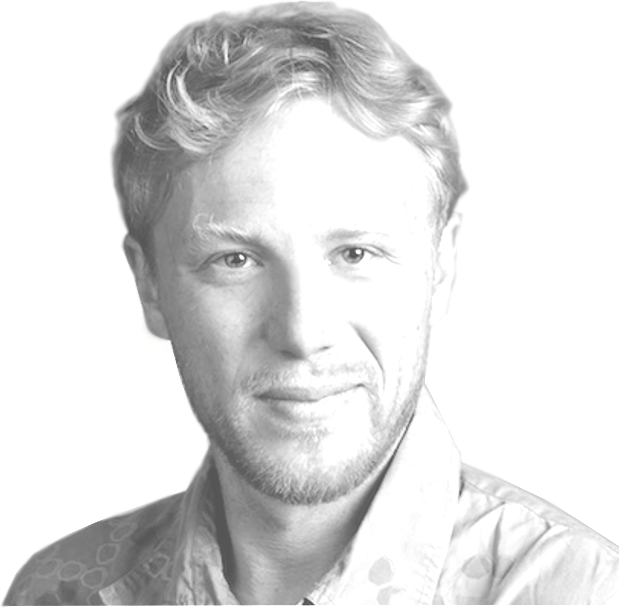
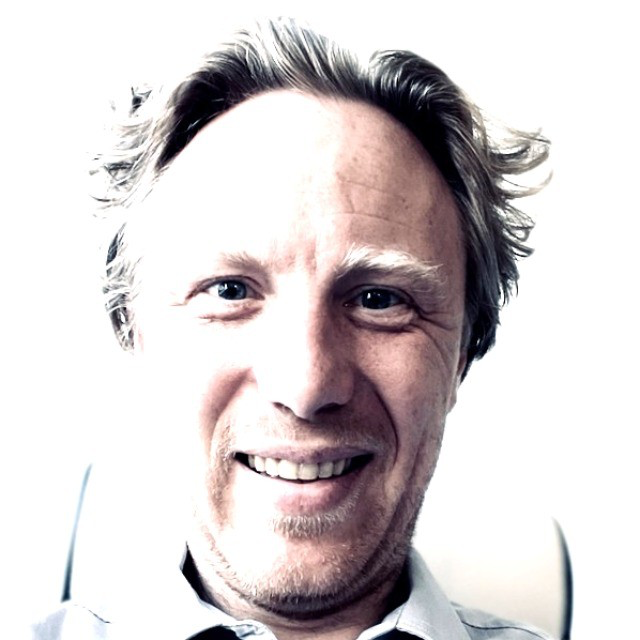
some design trial

diff --git a/build/index.html b/build/index.html
@@ -1,1 +1,1 @@
-<!DOCTYPE html><html><head><meta charset="utf-8" /><meta content="ie=edge" http-equiv="x-ua-compatible" /><meta content="width=device-width, initial-scale=1, shrink-to-fit=no" name="viewport" /><title>TSchmid.io</title><link href="stylesheets/application.css" rel="stylesheet" /><script src="javascripts/application.js"></script><link href="images/favicon.ico" rel="icon" type="image/ico" /><script async="" data-name="google-analytics" data-type="application/javascript" src="https://www.googletagmanager.com/gtag/js?id=G-F2N9H0REGE" type="text/plain"></script><script data-name="google-analytics" data-type="application/javascript" type="text/plain">window.dataLayer = window.dataLayer || []; function gtag(){dataLayer.push(arguments);} gtag('js', new Date()); gtag('config', 'G-F2N9H0REGE'); </script><script src="javascripts/klaro.config.js" defer="defer"></script><script src="javascripts/klaro.js" defer="defer"></script></head><body class="min-vh-100 d-flex flex-column"><div class="d-lg-none"><nav class="navbar navbar-expand navbar-light bg-body-tertiary fixed-top py-2" id="mainNav"><div class="container-fluid px-4 px-lg-5"><div class="text-start"><a class="button btn btn-outline-dark" href="tel:+491791451810"><i class="bi bi-telephone-fill"></i></a></div><a class="navbar-brand text-center" href="/">Tobias Schmid <br />tschmid.io</a><div class="text-end"><a class="button btn btn-outline-dark" href="mailto:hi@tschmid.io"><i class="bi bi-envelope-fill"></i></a></div></div></nav></div><div class="d-none d-lg-block"><nav class="navbar navbar-expand-lg navbar-light bg-body-tertiary fixed-top py-2" id="mainNav"><div class="container-fluid px-4 px-lg-5"><div class="text-start"><h4><a class="button btn btn-outline-dark" href="tel:+491791451810"><i class="bi bi-telephone-fill"></i><b> +49 179 145 181 0</b></a></h4></div><a class="navbar-brand" href="/">Tobias Schmid <span class="px-2"></span> | <span class="px-2"></span>tschmid.io</a><div class="text-end"><h4><a class="button btn btn-outline-dark" href="mailto:hi@tschmid.io"><i class="bi bi-envelope-fill"></i><b> hi@tschmid.io</b></a></h4></div></div></nav></div><div class="container flex-grow-1"><div class="row justify-content-center text-center"><div class="col"><div class="row justify-content-md-center"><div class="col-12 col-xl-7"><div class="page-section"><div class="row pt-5 text-start"><div class="col-12 col-lg-6"><div class="py-5 text-start"><h2 class="text-primary">Freelance IT Consultant </h2><h2 class="text-primary">& Technical Project Manager</h2><br /><div>With more than <b>14 years experience </b>in web & software projects, </div><br /><div>I help companies and the public sector with <b>digital transformation </b>challenges with a focus on <b>system integrations </b>and <b>interfaces.</b></div><br /><div>If you are looking for some IT <b>professional </b>with <b>strong technical knowledge </b>and a <b>hands-on mentality</b>, I would love to hear from you!</div></div></div><div class="col-12 col-lg-6 order-first order-lg-1"><img class="img-fluid" src="images/portrait.png" /><h2 class="text-end"><a class="text-dark" href="https://www.linkedin.com/in/tobias-schmid/"><i class="px-1 bi bi-linkedin"></i></a></h2></div></div><div class="row"><div class="col-12 col-lg-6 text-start pt-3"><div class="card h-100"><div class="card-body"><h4 class="card-title">TOP SKILLS</h4><div class="card-text pt-4"><div class="list-group"><div class="list-group-item list-group-item-action list-group-item-light">Complex System Integrations</div><div class="list-group-item list-group-item-action list-group-item-light">Interfaces (REST-APIs, Webhooks, a.o.)</div><div class="list-group-item list-group-item-action list-group-item-light">System Architectures</div><div class="list-group-item list-group-item-action list-group-item-light">Software Engineering</div><div class="list-group-item list-group-item-action list-group-item-light">Stakeholder Management</div><div class="list-group-item list-group-item-action list-group-item-light">Agile IT Project Management</div></div></div></div></div></div><div class="col-12 col-lg-6 text-start pt-3"><div class="card h-100"><div class="card-body"><h4 class="card-title">EDUCATION  </h4><div class="card-text pt-4"><div class="list-group"><div class="list-group-item list-group-item-action list-group-item-light"><div class="py-2"><div>Freie Universität Berlin</div><div><b>Master of Science</b></div><div>Informatik, 2011-2015</div></div></div><div class="list-group-item list-group-item-action list-group-item-light"><div class="py-2"><div>Hochschule Konstanz</div><div><b>Bachelor of Science</b></div><div>Software Engineering, 2007-2011</div></div></div></div></div></div></div></div></div><div class="row"><div class="col pt-5"><div class="pb-5 text-start"><h4>A selection of my freelance projects</h4></div><div class="accordion text-start" id="projectAccordion"><div class="accordion-item"><h2 class="accordion-header"><button aria-controls="ProjectItem1" aria-expanded="false" class="accordion-button collapsed" data-bs-target="#ProjectItem1" data-bs-toggle="collapse" type="button">Interim CTO @ Vemove GmbH<div class="px-2"><i class="bi bi-rocket-takeoff"></i></div>Transport-Management-System</button></h2><div class="accordion-collapse collapse" id="ProjectItem1"><div class="accordion-body">Conception and development of a transportation management system (TMS) for the eﬃcient processing of vehicle transport orders.<br /><br />> Digitalization and automation of previously manual business processes.<br />> Mapping of logistics processes and integration of external systems.<br />> Communication and coordination between the team and external stakeholders.<br />> Company scaling through the developed TMS in shortest time.</div></div></div><div class="accordion-item"><h2 class="accordion-header"><button aria-controls="ProjectItem2" aria-expanded="false" class="accordion-button collapsed" data-bs-target="#ProjectItem2" data-bs-toggle="collapse" type="button">IT Project Manager @ ]init AG[ <div class="px-2"><i class="bi bi-rocket-takeoff"></i></div>Elterngeld Digital</button></h2><div class="accordion-collapse collapse" id="ProjectItem2"><div class="accordion-body">Building digital services for Germany.<br />Project Management of challenging projects for the Federal Ministry of Family Affairs (Bundesfamilienministerium) for the digital transformation of administrative services.<br /><br />> Management of the teams to achieve the milestones (waterfall - scrum combination).<br />> Stakeholder management of representatives from federal and state ministries in workshops and committees.<br />> Coordination and supervision of the further development of the XÖV standard XFamilie for the standardization of data structures (for digital communication in the family sector).<br />> Integration of OSCI/XTA2/DVDV and COM Despina into the Elterngeld Digital service.</div></div></div><div class="accordion-item"><h2 class="accordion-header"><button aria-controls="ProjectItem3" aria-expanded="false" class="accordion-button collapsed" data-bs-target="#ProjectItem3" data-bs-toggle="collapse" type="button">IT Consultant @ Scheibner m-tec GmbH<div class="px-2"><i class="bi bi-rocket-takeoff"></i></div>Measurement-Expert-System</button></h2><div class="accordion-collapse collapse" id="ProjectItem3"><div class="accordion-body">Conception and development of a system for measuring and calculating the dimensional accuracy of e-bike and bicycle frames. Automated generation of measurement protocols for test reports.</div></div></div><div class="accordion-item"><h2 class="accordion-header"><button aria-controls="ProjectItem4" aria-expanded="false" class="accordion-button collapsed" data-bs-target="#ProjectItem4" data-bs-toggle="collapse" type="button">IT Consultant @ coVidGO.io<div class="px-2"><i class="bi bi-rocket-takeoff"></i></div>Corona-Warn-App Integration</button></h2><div class="accordion-collapse collapse" id="ProjectItem4"><div class="accordion-body">Connecting coVidGO with a microservice to the Corona-Warn-App (CWA) over the CWA server infrastructure.</div></div></div><div class="accordion-item"><h2 class="accordion-header"><button aria-controls="ProjectItem5" aria-expanded="false" class="accordion-button collapsed" data-bs-target="#ProjectItem5" data-bs-toggle="collapse" type="button">IT Produkt Manager & Consultant @ Volkswagen AG<div class="px-2"><i class="bi bi-rocket-takeoff"></i></div>Preventive Maintenance Platform</button></h2><div class="accordion-collapse collapse" id="ProjectItem5"><div class="accordion-body">Developing a PM system which integrates the On-board diagnostics(OBD2) of fleet vehicles into a Fleet Maintenance Management System.Piloting the PM System with a large logistic fleet.<br />Generation of important market information about fleet maintenance for the VW Commercial Vehicles Group and the Smart Mobility and Transport Team.</div></div></div><div class="accordion-item"><h2 class="accordion-header"><button aria-controls="ProjectItem6" aria-expanded="false" class="accordion-button collapsed" data-bs-target="#ProjectItem6" data-bs-toggle="collapse" type="button">IT Consultant @ FIEGE Logistik<div class="px-2"><i class="bi bi-rocket-takeoff"></i></div>Technical Due Diligence</button></h2><div class="accordion-collapse collapse" id="ProjectItem6"><div class="accordion-body">Technical Screening of the IT infrastructure and system-architecture of the “angelbringts” logistic platform. Advising a next step roadmap within a Technical Due Diligence.</div></div></div><div class="accordion-item"><h2 class="accordion-header"><button aria-controls="ProjectItem7" aria-expanded="false" class="accordion-button collapsed" data-bs-target="#ProjectItem7" data-bs-toggle="collapse" type="button">IT Consultant @ DPD (Schweiz) AG<div class="px-2"><i class="bi bi-rocket-takeoff"></i></div>Transport Management Platform</button></h2><div class="accordion-collapse collapse" id="ProjectItem7"><div class="accordion-body">After Exit of ImagineCargo to DPD-Schweiz in early 2020, Setup & Implementing the IT-Infrastructure of ImagineCargo for a new pilot project of DPD.</div></div></div></div></div></div></div><div class="page-section"><div class="row"><div class="col"><div class="d-grid gap-2 col-12 col-lg-6 mx-auto"><a class="button btn btn-primary" href="mailto:hi@tschmid.io"><i class="bi bi-rocket-takeoff-fill"></i> start something great <i class="bi bi-rocket-takeoff-fill"></i></a></div></div></div></div></div></div></div></div></div><div class="page-section"></div><footer class="min-vh-100 bg-dark py-5"><div class="container px-4 px-lg-5"><div class="pb-3"><div class="small text-center text-light"><a>IMPRINT</a><div>Tobias Schmid</div><div>Treptower Str 92</div><div>12059 Berlin</div><div>E-Mail: <a href="mailto:hi@tschmid.io">hi@tschmid.io</a></div></div></div><div class="small text-center text-light"><div> Copyright © 2025 - TSchmid.io</div><div><a href="/privacy-policy/">Privacy Policy</a></div></div></div></footer></body></html>
+<!DOCTYPE html><html><head><meta charset="utf-8" /><meta content="ie=edge" http-equiv="x-ua-compatible" /><meta content="width=device-width, initial-scale=1, shrink-to-fit=no" name="viewport" /><title>TSchmid.io</title><link href="stylesheets/application.css" rel="stylesheet" /><script src="javascripts/application.js"></script><link href="images/favicon.ico" rel="icon" type="image/ico" /><script async="" data-name="google-analytics" data-type="application/javascript" src="https://www.googletagmanager.com/gtag/js?id=G-F2N9H0REGE" type="text/plain"></script><script data-name="google-analytics" data-type="application/javascript" type="text/plain">window.dataLayer = window.dataLayer || []; function gtag(){dataLayer.push(arguments);} gtag('js', new Date()); gtag('config', 'G-F2N9H0REGE'); </script><script src="javascripts/klaro.config.js" defer="defer"></script><script src="javascripts/klaro.js" defer="defer"></script></head><body class="min-vh-100 d-flex flex-column"><div class="d-lg-none"><nav class="navbar navbar-expand navbar-light bg-body-tertiary fixed-top py-2" id="mainNav"><div class="container-fluid px-4 px-lg-5"><div class="text-start"><a class="button btn btn-outline-dark" href="tel:+491791451810"><i class="bi bi-telephone-fill"></i></a></div><a class="navbar-brand text-center" href="/">Tobias Schmid <br />tschmid.io</a><div class="text-end"><a class="button btn btn-outline-dark" href="mailto:hi@tschmid.io"><i class="bi bi-envelope-fill"></i></a></div></div></nav></div><div class="d-none d-lg-block"><nav class="navbar navbar-expand-lg navbar-light bg-body-tertiary fixed-top py-2" id="mainNav"><div class="container-fluid px-4 px-lg-5"><div class="text-start"><h4><a class="button btn btn-outline-dark" href="tel:+491791451810"><i class="bi bi-telephone-fill"></i><b> +49 179 145 181 0</b></a></h4></div><a class="navbar-brand" href="/">Tobias Schmid <span class="px-2"></span> | <span class="px-2"></span>tschmid.io</a><div class="text-end"><h4><a class="button btn btn-outline-dark" href="mailto:hi@tschmid.io"><i class="bi bi-envelope-fill"></i><b> hi@tschmid.io</b></a></h4></div></div></nav></div><div class="container flex-grow-1"><div class="row justify-content-center text-center"><div class="col"><div class="row justify-content-md-center"><div class="col-12 col-xl-7"><div class="page-section"><div class="row pt-5 text-start"><div class="col-12 col-lg-6"><div class="py-5 text-start"><h2 class="text-primary">Freelance IT Consultant </h2><h2 class="text-primary">& Technical Project Manager</h2><br /><div>With more than <b>14 years experience </b>in web & software projects, </div><br /><div>I help companies and the public sector with <b>digital transformation </b>challenges with a focus on <b>system integrations </b>and <b>interfaces.</b></div><br /><div>If you are looking for some IT <b>professional </b>with <b>strong technical knowledge </b>and a <b>hands-on mentality</b>, I would love to hear from you!</div></div></div><div class="col-12 col-lg-6 order-first order-lg-1"><img class="img-fluid" src="images/portrait.png" /><h2 class="text-end"><a class="text-dark" href="https://www.linkedin.com/in/tobias-schmid/"><i class="px-1 bi bi-linkedin"></i></a></h2></div></div><div class="row"><div class="col-12 col-lg-6 text-start pt-3"><div class="card h-100"><div class="card-body"><h4 class="card-title">TOP SKILLS</h4><div class="card-text pt-4"><div class="list-group"><div class="list-group-item list-group-item-action list-group-item-light">Complex System Integrations</div><div class="list-group-item list-group-item-action list-group-item-light">Interfaces (REST-APIs, Webhooks, a.o.)</div><div class="list-group-item list-group-item-action list-group-item-light">System Architectures</div><div class="list-group-item list-group-item-action list-group-item-light">Software Engineering</div><div class="list-group-item list-group-item-action list-group-item-light">Stakeholder Management</div><div class="list-group-item list-group-item-action list-group-item-light">Agile IT Project Management</div></div></div></div></div></div><div class="col-12 col-lg-6 text-start pt-3"><div class="card h-100"><div class="card-body"><h4 class="card-title">EDUCATION  </h4><div class="card-text pt-4"><div class="list-group"><div class="list-group-item list-group-item-action list-group-item-light"><div class="py-2"><div>Freie Universität Berlin</div><div><b>Master of Science</b></div><div>Informatik, 2011-2015</div></div></div><div class="list-group-item list-group-item-action list-group-item-light"><div class="py-2"><div>Hochschule Konstanz</div><div><b>Bachelor of Science</b></div><div>Software Engineering, 2007-2011</div></div></div></div></div></div></div></div></div></div><div class="page-section"><div class="row"><div class="col"><div class="d-grid gap-2 col-12 col-lg-6 mx-auto"><a class="button btn btn-primary" href="mailto:hi@tschmid.io"><i class="bi bi-rocket-takeoff-fill"></i> start something great <i class="bi bi-rocket-takeoff-fill"></i></a></div></div></div></div></div></div></div></div></div><div class="page-section"></div><footer class="min-vh-100 bg-dark py-5"><div class="container px-4 px-lg-5"><div class="pb-3"><div class="small text-center text-light"><a>IMPRINT</a><div>Tobias Schmid</div><div>Treptower Str 92</div><div>12059 Berlin</div><div>E-Mail: <a href="mailto:hi@tschmid.io">hi@tschmid.io</a></div></div></div><div class="small text-center text-light"><div> Copyright © 2025 - TSchmid.io</div><div><a href="/privacy-policy/">Privacy Policy</a></div></div></div></footer></body></html>

diff --git a/source/stylesheets/components/_variables.scss b/source/stylesheets/components/_variables.scss
@@ -1,4 +1,7 @@
 $primary: #cb2892;
+$dark: #4E4E4E;
+$secondary: #3F5E7D;
+$light: #CFDBE7;
 $body-bg: #fff;
 $input-bg: #fff;
 $border-radius: 0.2em;
